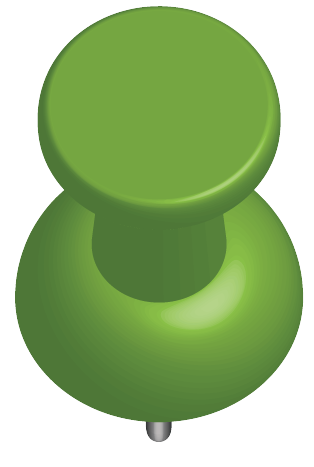
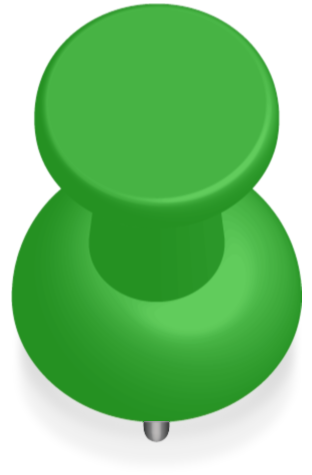
Troca de cores dos pins e postites

diff --git a/index.html b/index.html
@@ -54,69 +54,69 @@
     <main class="main__content">
         <div class="board-posts">
 
-            <div class="post">
+            <div class="post p1">
+                <div class="pin">
+                    <img src="imgs/pin_yellow.png" alt="">
+
+                </div>
+            </div>
+
+            <div class="post p2">
+                <div class="pin">
+                    <img src="imgs/pin_purple.png" alt="">
+
+                </div>
+            </div>
+
+            <div class="post p3">
                 <div class="pin">
                     <img src="imgs/pin_green.png" alt="">
 
                 </div>
             </div>
 
-            <div class="post">
-                <div class="pin">
-                    <img src="imgs/pin_pink.png" alt="">
-
-                </div>
-            </div>
-
-            <div class="post">
-                <div class="pin">
-                    <img src="imgs/pin_orange.png" alt="">
-
-                </div>
-            </div>
-
-            <div class="post">
+            <div class="post p4">
                 <div class="pin">
                     <img src="imgs/pin_red.png" alt="">
 
                 </div>
             </div>
 
-            <div class="post">
-                <div class="pin">
-                    <img src="imgs/pin_white.png" alt="">
-
-                </div>
-            </div>
-
-            <div class="post">
-                <div class="pin">
-                    <img src="imgs/pin_orange.png" alt="">
-
-                </div>
-            </div>
-
-            <div class="post">
-                <div class="pin">
-                    <img src="imgs/pin_green.png" alt="">
-
-                </div>
-            </div>
-
-            <div class="post">
+            <div class="post p5">
                 <div class="pin">
                     <img src="imgs/pin_pink.png" alt="">
 
                 </div>
             </div>
 
-            <div class="post">
+            <div class="post p3">
+                <div class="pin">
+                    <img src="imgs/pin_blue.png" alt="">
+
+                </div>
+            </div>
+
+            <div class="post p2">
+                <div class="pin">
+                    <img src="imgs/pin_orange.png" alt="">
+
+                </div>
+            </div>
+
+            <div class="post p1">
+                <div class="pin">
+                    <img src="imgs/pin_darkblue.png" alt="">
+
+                </div>
+            </div>
+
+            <div class="post p4">
                 <div class="pin">
                     <img src="imgs/pin_green.png" alt="">
 
                 </div>
             </div>
-            <div class="post">
+            <div class="post p2">
                 <div class="pin">
                     <img src="imgs/pin_pink.png" alt="">
 
@@ -162,7 +162,5 @@
     </footer>
 
     <script src="src/script.js"></script>
-
 </body>
-
 </html>

diff --git a/style/main.css b/style/main.css
@@ -1,6 +1,8 @@
 body{
     background-color: #201629;
     height: 100vh;
+    overflow-x: hidden;
+
 }
 
 .main__content{
@@ -20,7 +22,6 @@ body{
 }
 
 .board-posts .post{
-    background-color: #d7d888;
     border-left: 25px solid transparent;
     width: 250px;
     height:  250px;
@@ -29,6 +30,23 @@ body{
     border: 0px solid ;
     cursor: pointer;
 } 
+
+.board-posts .p1{
+    background-color: #8afbad;
+}
+.board-posts .p2{
+    background-color: #a1d9ff;
+}
+.board-posts .p3{
+    background-color: #fab186;
+}
+.board-posts .p4{
+    background-color: #fff28d;
+}
+.board-posts .p5{
+    background-color: #ffa5c3;
+}
+
 
 .board-posts .post .pin{
     box-shadow: 0px 70px 12px -60px rgba(94, 94, 94, 0.27)
@@ -81,7 +99,7 @@ body{
 
 .big-post{
     margin-top:14vh ;
-    background-color: #d7d888;
+    background-color: #fff28d;
     width: 550px;
     height: 550px;
     display: flex;
@@ -91,7 +109,7 @@ body{
 
 .create-post{
     margin-top:14vh ;
-    background-color: #d7d888;
+    background-color: #fff28d;
     width: 550px;
     height: 550px;
     display: flex;
@@ -121,7 +139,7 @@ body{
     display: flex;
 }
 
-@keyframes openCreate{
+@keyframes openPost{
     from{
         opacity: 0;
         transform: translate3d(20px, 0, 5px);
@@ -132,7 +150,6 @@ body{
     }
 }
 
-.open .create-post{
-    animation: openCreate 0.5s;
+.open{
+    animation: openPost 0.5s;
 }
-

diff --git a/src/script.js b/src/script.js
@@ -16,9 +16,7 @@ clickedPost.forEach(post => {
         focusPost.textContent = "Isso é um postite aberto";
         focusPost.classList.add ('big-post');
         focusPost.id = 'bigPost'
-        
-        
-
+          
         window.addEventListener('click', (e) =>{
             if(e.target.id == 'exit' || e.target.id == 'windowContent'){
                 const bigPost = document.getElementById('bigPost')
@@ -26,9 +24,7 @@ clickedPost.forEach(post => {
                 btn.classList.remove('hidden')
                 bigPost.remove()
             };
-        });
-        
-
+        });       
     })
 }) 
 
